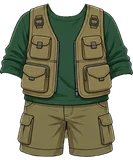
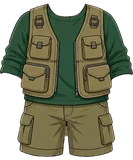
남아 사파리 옷: 어깨 늘린 손질본으로 교체 (#740)
* 해적 신발 크기·위치 재조정 (베이스 다리 비율에 맞춤)

- 해적 남아 원화와 비교해 베이스가 다리가 짧고 가늘어서, 신발 높이를 112로
  줄이고 윗선을 y827에 맞춤(발바닥 y939)
- 왼짝·오른짝을 따로 배치해 발별로 미세 조정할 수 있게 함
- 같은 파일명이라 경로에 ?v=2

Claude-Session: https://claude.ai/code/session_018maNuYqDfFyRSe9uKpZhPR

* 오늘의 발견을 수첩에 붙인 메모지 디자인으로 변경

- 크림색 종이 질감 + 연두 마스킹테이프, 테두리 없이 그림자·거친 가장자리로만 표현
- 수첩보다 살짝 좁게, '오늘의 발견'은 작게 · 발견 내용은 진한 갈색으로 크게
- 도감 버튼을 오른쪽 작은 알약 버튼(도감 N개 ›)으로
- '탐험일지' 머리말 아래 · 수첩 바로 위로 이동
- App.jsx에서 DiscoveryMemo 컴포넌트로 분리

Claude-Session: https://claude.ai/code/session_018maNuYqDfFyRSe9uKpZhPR

* 오늘의 발견 메모지: 글씨 줄이고 테이프를 왼쪽 위 모서리 대각선으로

- 발견 내용 16.5 → 14 (폰에서 짧은 힌트도 두 줄로 꺾이던 문제), 머리말·도감 버튼·아이콘도 한 단계씩
- 위쪽 가운데 테이프가 '탐험일지' 머리말 줄과 겹쳐 보여 왼쪽 위 모서리에 대각선으로

Claude-Session: https://claude.ai/code/session_018maNuYqDfFyRSe9uKpZhPR

* 오늘의 발견 메모지: 힌트 날의 발자국 아이콘 제거

발자국 자리만큼 힌트가 한 줄에 더 들어가게 함. 찾은 날의 발견 이모지는 유지.

Claude-Session: https://claude.ai/code/session_018maNuYqDfFyRSe9uKpZhPR

* 남아 아바타 기본 몸체 새 버전으로 교체

사용자 제공 원화(갈색 짧은 머리)로 body.webp 업데이트.
버전을 v8 → v9로 올려 기존 기기 캐시 무효화.
art-src/body-boy-src.webp에 원본 보관 (webp q92).

Claude-Session: https://claude.ai/code/session_018maNuYqDfFyRSe9uKpZhPR

* 남아 베이스 v9 탑재 바로잡기 (머리 겹침·비율 깨짐 수정)

직전 커밋은 원화(머리 포함 전신)를 1024×1024로 통째로 늘려 body.webp에 넣어
베이스 머리가 그 위에 또 그려지고 몸 비율도 깨졌다. v8과 같은 공식으로 다시 탑재:
- 알파 상자를 v8 자리(y89~942, 가로 중심 512)에 맞춤 — 실루엣 IoU 0.976이라 장비 재조정 불필요
- y405에서 가로로 잘라 head/body, 합본 default까지 3장 교체, 경로 ?v=9
- art-src: base-v9-boy-src.webp로 이름 정리, 규칙 6에 따라 base-v8-boy-src 삭제
[…]

diff --git a/src/data/avatarEquipment.js b/src/data/avatarEquipment.js
@@ -206,8 +206,10 @@ export const AVATAR_CATALOG = [
      어깨 위에 맨살 띠가 남는다. 세로를 올려야 없어진다.
      [2026-10-02] 남아 그림 교체 (사용자 원화 v2 — 초록 긴소매 + 카키 조끼 + 카키 반바지).
      베이스 v9 남아에 맞춰 배율 0.65 · 가로 1.02배 · 위끝 y402 · 중심 515 로 넣은 뒤, 사용자가 격자로 보며
-     2% 키우고 2px 내려 확정 — 배율 0.663 · 가로 1.02배 · 위끝 y404 · 중심 515 (art-src/README 참고). */
-  { id: "top_vest",       slot: "top",   label: "사파리 옷",   emoji: "🦺", price:DECOR_PRICE.rare, rarity: "rare",   theme: "adventure", coversBottom: true, img: "assets/avatar/top/safari-outfit-boy.webp?v=6", imgGirl: "assets/avatar/top/safari-outfit-girl.webp?v=4", thumb: "assets/avatar/thumb/top_vest.webp?v=2", thumbGirl: "assets/avatar/thumb/top_vest-girl.webp" },
+     2% 키우고 2px 내려 확정 — 배율 0.663 · 가로 1.02배 · 위끝 y404 · 중심 515 (art-src/README 참고).
+     [2026-10-02] 다시 1% 줄이고 왼쪽 1px(배율 0.6564 · 중심 514) → 사용자가 그 판의 어깨를 직접 늘려
+     보내 준 그림을 그대로 (370,404) 에 얹었다(safari-boy-outfit-edit-src). */
+  { id: "top_vest",       slot: "top",   label: "사파리 옷",   emoji: "🦺", price:DECOR_PRICE.rare, rarity: "rare",   theme: "adventure", coversBottom: true, img: "assets/avatar/top/safari-outfit-boy.webp?v=7", imgGirl: "assets/avatar/top/safari-outfit-girl.webp?v=4", thumb: "assets/avatar/thumb/top_vest.webp?v=3", thumbGirl: "assets/avatar/thumb/top_vest-girl.webp" },
 
   /* ── 딸기 소풍 · 별빛 마법사 (여아) — 사용자 원화 2026-08-19 ─────────────
      이 두 벌은 원화를 **베이스 v7 여아가 입은 전신 그림**으로 받았다. 그래서 배율을

diff --git a/art-src/README.md b/art-src/README.md
@@ -375,6 +375,7 @@ getBoundingClientRect로 재서 정한다. 2026-08-05 점검에서 이 기준을
 | picnic-girl-set-worn-src.webp | **딸기 소풍 세트 전신 그림 여아 (사용자 원화 2026-08-20)** — 860×1829, 알파가 머리 부분만 살아 있어서 **RGB의 검정 배경을 흘려 지워** 썼다. 여기서 신발(발목 아래)만 떼어냈다. 바구니는 손에 가려 조각나서 못 썼다 | **(넣었다가 상점에서 뺌 2026-08-20)** — 그림은 avatar/shoes/picnic-shoes-girl.webp 에 그대로 있다 |
 | pirate-girl-hat-worn-src.webp | **해적 모자 원화 여아 (사용자 원화 2026-08-20)** — 베이스 v7 여아가 **쓰고 있는 머리 그림**(664×592, 투명). 남색 삼각모 + 주황 테두리 + 불가사리. 얼굴 상자로 맞춤(배율 0.6336) · 탑재 상자 (313,58)-(723,329) | avatar/hat/pirate-hat-girl.webp |
 | safari-boy-outfit-src.webp | **사파리 옷 원화 남아 v2 (사용자 원화 2026-10-02)** — 493×594, 투명 배경, **옷만 오려 낸 그림**(알파 상자 (30,36)-(462,558)). 초록 긴소매(팔꿈치까지 걷음) 티셔츠 + 카키 카고 조끼 + 카키 카고 반바지. 예전 판(크림 셔츠 + 탄색 조끼)을 대체했고 규칙 6에 따라 같은 이름으로 덮어썼다. **목 살 떼기** — 원화 깃 위로 목·쇄골 살이 그려져 있어, 가장 큰 살색 덩어리의 열 범위에서 초록 깃의 위끝을 4차 곡선으로 매끈하게 이은 선 위를 전부 지우고 그 자리에 2px 짙은 갈색(58,44,34) 깃선을 다시 그렸다 — 베이스의 목이 그대로 보인다. **맞춤** — 베이스 v9 남아 기준, 배율·가로배·위치를 격자로 훑어 "안 가려진 흰 속옷×3 + 안 가려진 어깨(y420~540) + 목 살 덮음 + 몸 밖 불룩×0.5"가 최소인 값: 배율 **0.65** · 가로 **1.02배** · 위끝 **y402** · 가로 중심 **515** → 탑재 상자 (372,402)-(658,733). 소매 끝이 팔꿈치(y≈560), 반바지 끝이 허벅지 가운데. **가랑이 V 메움** — y640~715 · x480~550 에서 "베이스 불투명 + 옷 알파<250" 116px 을 반바지 색 (124,114,74) 으로 채웠다(흰 속옷이 비치던 자리). 자홍 배경 검사: 연결 조각 1 · 안쪽 구멍 0. **[사용자 확정 2026-10-02] 격자로 보며 미세 조정** — 3px 내림 → 2% 키움 → 1px 올림 → 배율 **0.663** · 가로 1.02배 · 위끝 **y404** · 중심 515 → 탑재 상자 **(369,404)-(661,741)**. 가랑이 메움은 같은 규칙으로 64px. 몸통 쪽 안 가려진 속옷 1px. 경로 ?v=6 | avatar/top/safari-outfit-boy.webp · thumb/top_vest.webp |
+| safari-boy-outfit-edit-src.webp | **사파리 옷 남아 — 사용자 손질본 (2026-10-02)**. 위 원화를 배율 0.6564 · 가로 1.02배 · 위끝 y404 · 중심 x514 로 얹은 판을 알파 상자대로 잘라(290×335) 보내 드렸더니, 사용자가 **어깨만 살짝 늘려** 돌려준 그림. 캔버스 크기가 그대로라 (370,404) 에 놓으면 원래 판과 어긋남 0 으로 겹친다(알파 차이 379px — 전부 어깨·소매 둘레). **탑재본은 이 그림을 그대로 쓴다** — 원화(위 행)에서 다시 만들면 어깨 손질이 사라진다. 손질 과정에서 가랑이 V 메움이 빠져 있어(속옷 비침 76px) 같은 규칙(y644~721 · x479~549 · 반바지 색 124,114,74)으로 119px 다시 채웠다. 경로 ?v=7 · 썸네일 ?v=3 | avatar/top/safari-outfit-boy.webp · thumb/top_vest.webp |
 | safari-girl-band-worn-src.webp | **사파리 머리띠 원화 여아 v2 (사용자 원화 2026-08-20)** — 베이스 v7 여아가 **쓰고 있는 머리 그림**(512×512, 투명). 초록 리본 머리띠 + 관자놀이 데이지. 예전 '머리띠만 오려 낸' 원화(safari-girl-band-src)는 지웠다 | avatar/hat/safari-band-girl.webp |
 | safari-girl-outfit-src.webp | 사파리 옷 원화 여아 — 블라우스+반바지 한 장 (현행) | avatar/top/safari-outfit-girl.webp |
 | safari-girl-boot-src.webp | 사파리 부츠 원화 여아 한 짝 (정면, 좌우 반전해서 한 켤레로) | **(상점에서 뺌 2026-08-20)** — 그림은 avatar/shoes/safari-boots-girl.webp 에 그대로 있다. 다시 넣을 때 재사용 |
